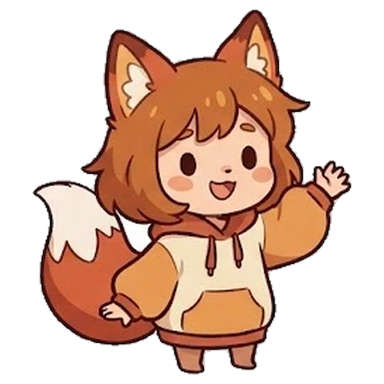
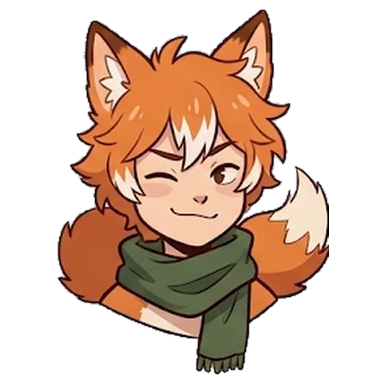
New customer portraits
Replaces ten customer portraits with the new anime-style sticker set, cut
out of the sheet without its white background or sticker borders. Where
the new art shows a different animal, the customer is renamed and gets a
matching thank-you sound: Woolly Sheep, Dash Deer, Sammy Squirrel, Rex Wolf
and Tora Tiger. The kind ids stay the same so saved games keep working.
Rocco Raccoon and Sir Walrus keep their current art.

Claude-Session: https://claude.ai/code/session_019pd5Adx9QtfWsyzaTi1pS1

diff --git a/src/render/sfx.ts b/src/render/sfx.ts
@@ -268,28 +268,26 @@ export const sfx = {
       case 'fox': // two quick yips
         [0, 0.14].forEach((t) => osc('sawtooth', t, [[0, 900], [0.05, 1400], [0.1, 1000]], [[0, 0], [0.01, 0.07], [0.11, 0]], { filter: { type: 'bandpass', freq: [[0, 1500], [0.1, 1500]], q: 3 } }));
         break;
-      case 'penguin': // a honky squawk
-        osc('square', 0, [[0, 600], [0.1, 700], [0.3, 550]], [[0, 0], [0.02, 0.05], [0.25, 0.04], [0.32, 0]], { filter: { type: 'bandpass', freq: [[0, 1200], [0.3, 1000]], q: 5 } });
+      case 'penguin': // the sheep: a wobbly "baa"
+        osc('sawtooth', 0, [[0, 420], [0.1, 470], [0.45, 400]], [[0, 0], [0.04, 0.07], [0.4, 0.05], [0.5, 0]], { tremolo: { rate: 18, depth: 0.5 }, filter: { type: 'bandpass', freq: [[0, 1100], [0.5, 900]], q: 3 } });
         break;
-      case 'pig': // oink oink
-        [0, 0.2].forEach((t) => osc('sawtooth', t, [[0, 260], [0.06, 340], [0.15, 220]], [[0, 0], [0.01, 0.09], [0.15, 0]], { filter: { type: 'bandpass', freq: [[0, 700], [0.15, 500]], q: 6 } }));
+      case 'pig': // the deer: a soft, rising bleat
+        osc('triangle', 0, [[0, 700], [0.12, 1100], [0.25, 950]], [[0, 0], [0.02, 0.08], [0.25, 0]], { vibrato: { rate: 9, depth: 15 } });
         break;
-      case 'frog': // ribbit
-        [0, 0.12].forEach((t) => {
-          for (let i = 0; i < 4; i++) osc('square', t + i * 0.02, [[0, 300], [0.015, 260]], [[0, 0], [0.002, 0.06], [0.018, 0]], { filter: { type: 'lowpass', freq: [[0, 1200], [0.02, 900]] } });
-        });
+      case 'frog': // the squirrel: quick excited squeaks
+        for (let i = 0; i < 4; i++) osc('sine', i * 0.07, [[0, 2200 + (i % 2) * 300], [0.05, 2600 + (i % 2) * 300]], [[0, 0], [0.005, 0.06], [0.05, 0]]);
         break;
       case 'panda': // munch munch and a happy hum
         bursts(0, 0.3, 8, 900, 2, 0.1, 0.03);
         osc('triangle', 0.3, [[0, 300], [0.3, 360]], [[0, 0], [0.05, 0.06], [0.35, 0]]);
         break;
-      case 'dog': // a happy woof
-        osc('sawtooth', 0, [[0, 300], [0.05, 420], [0.18, 240]], [[0, 0], [0.01, 0.12], [0.18, 0]], { filter: { type: 'lowpass', freq: [[0, 1600], [0.18, 700]], q: 2 }, distort: true });
+      case 'dog': // the wolf: a short, happy howl
+        osc('sawtooth', 0, [[0, 380], [0.2, 620], [0.6, 520]], [[0, 0], [0.1, 0.07], [0.5, 0.05], [0.65, 0]], { filter: { type: 'lowpass', freq: [[0, 1200], [0.65, 900]] }, vibrato: { rate: 6, depth: 8 } });
         break;
       case 'raccoon': // a little chitter
         for (let i = 0; i < 6; i++) osc('square', i * 0.045, [[0, 1800 + (i % 2) * 400], [0.03, 1600]], [[0, 0], [0.004, 0.035], [0.035, 0]], { filter: { type: 'bandpass', freq: [[0, 2200], [0.03, 2000]], q: 4 } });
         break;
-      case 'lion': // a big, purring rumble
+      case 'lion': // the tiger: a big, purring rumble
         osc('sawtooth', 0, [[0, 70], [0.6, 80]], [[0, 0], [0.1, 0.1], [0.6, 0.08], [0.7, 0]], { tremolo: { rate: 24, depth: 0.05 }, filter: { type: 'lowpass', freq: [[0, 300], [0.7, 260]] } });
         break;
       case 'critic': { // a pompous "hm-HMM!" and a little fanfare

diff --git a/src/game/config.ts b/src/game/config.ts
@@ -4,6 +4,11 @@ export type ChainId = 'bakery' | 'drinks' | 'dessert' | 'grill' | 'coin' | 'ener
 export type GenId = 'oven' | 'fountain' | 'mixer' | 'bbq';
 /** The four kinds of food customers order. */
 export type FoodId = 'bakery' | 'drinks' | 'dessert' | 'grill';
+/**
+ * Customer kinds. These ids are stored in saves, so they stay as they are even where
+ * the painted portrait shows a different animal: penguin is a sheep, pig a deer,
+ * frog a squirrel, dog a wolf and lion a tiger.
+ */
 export type CustomerKind =
   | 'bunny' | 'cat' | 'bear' | 'fox' | 'penguin' | 'pig' | 'frog'
   | 'panda' | 'dog' | 'raccoon' | 'lion' | 'critic';
@@ -109,17 +114,17 @@ export interface CustomerDef {
 }
 
 export const CUSTOMERS: CustomerDef[] = [
-  { kind: 'bunny', name: 'Bonnie Bunny', minLevel: 1 },
+  { kind: 'bunny', name: 'Benny Bunny', minLevel: 1 },
   { kind: 'cat', name: 'Mittens', minLevel: 1 },
   { kind: 'bear', name: 'Bruno Bear', minLevel: 1 },
-  { kind: 'penguin', name: 'Pablo Penguin', minLevel: 3 },
-  { kind: 'pig', name: 'Penny Pig', minLevel: 4 },
+  { kind: 'penguin', name: 'Woolly Sheep', minLevel: 3 },
+  { kind: 'pig', name: 'Dash Deer', minLevel: 4 },
   { kind: 'panda', name: 'Bao Panda', minLevel: 5 },
   { kind: 'fox', name: 'Felix Fox', minLevel: 2 },
-  { kind: 'frog', name: 'Freddie Frog', minLevel: 4 },
-  { kind: 'dog', name: 'Biscuit Pup', minLevel: 6 },
+  { kind: 'frog', name: 'Sammy Squirrel', minLevel: 4 },
+  { kind: 'dog', name: 'Rex Wolf', minLevel: 6 },
   { kind: 'raccoon', name: 'Rocco Raccoon', minLevel: 8 },
-  { kind: 'lion', name: 'Leo the Lion', minLevel: 10 },
+  { kind: 'lion', name: 'Tora Tiger', minLevel: 10 },
 ];
 
 /** Every few customers a food critic drops by: a bigger order, bigger rewards. */

diff --git a/README.md b/README.md
@@ -43,8 +43,8 @@ node scripts/play.mjs http://localhost:5173/ shots   # scripted playtest with sc
   green tile. When the whole order is ready, press **Serve!**: a plate draws itself under each dish, the dish flies
   over, the customer takes a happy bite and pays coins, XP and Stars. Badges over the customer show the XP, coins
   and stars they give; tap them for their name and full order. Every 6th customer is **Sir Walrus, the food critic**,
-  with a bigger order and bigger rewards. New customers arrive as you level up: Felix Fox (level 2), Pablo Penguin (3),
-  Penny Pig and Freddie Frog (4), Bao Panda (5), Biscuit Pup (6), Rocco Raccoon (8) and Leo the Lion (10).
+  with a bigger order and bigger rewards. New customers arrive as you level up: Felix Fox (level 2), Woolly Sheep (3),
+  Dash Deer and Sammy Squirrel (4), Bao Panda (5), Rex Wolf (6), Rocco Raccoon (8) and Tora Tiger (10).
 - **New customers**: don't like the current orders? The ⟳ button above the customer cards swaps all three.
   It costs 10 coins, and the price doubles with every refresh until you serve someone, which resets it to 10.
   A critic stays a critic when you refresh. Tuning lives in `REFRESH_BASE_COST` / `REFRESH_COST_GROWTH`.
